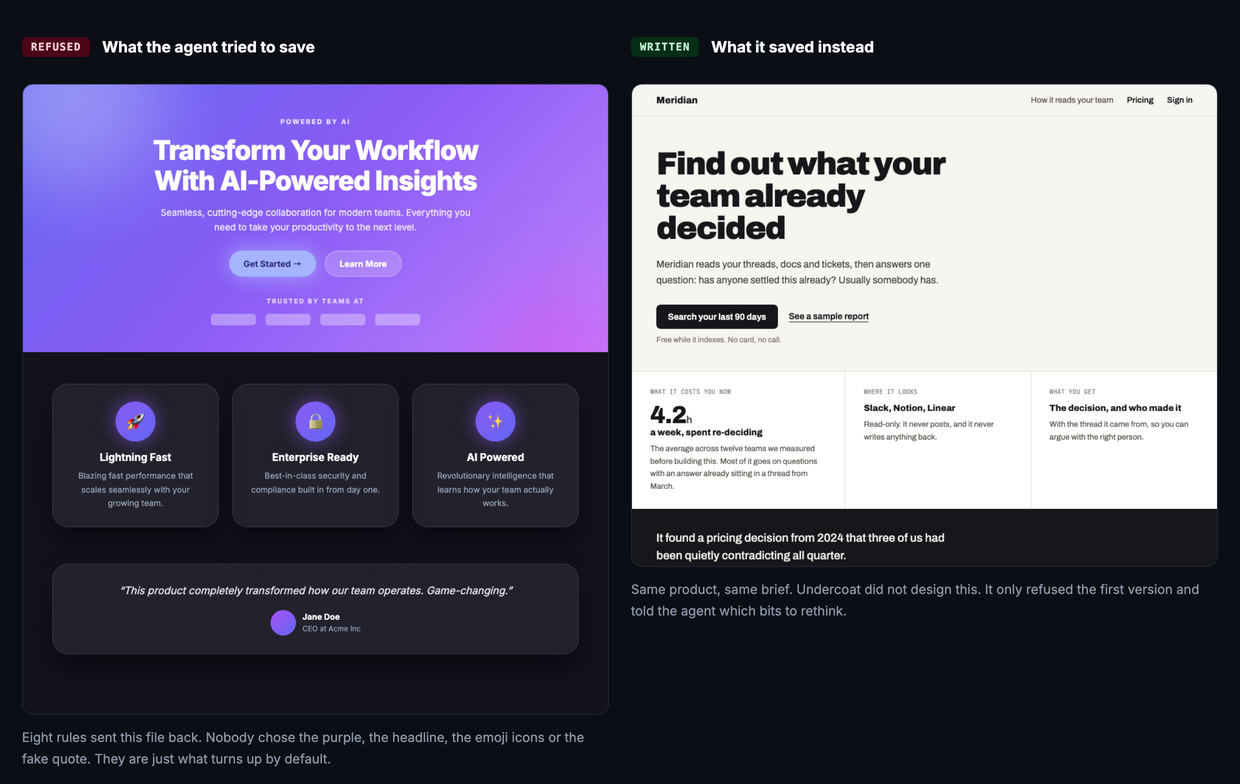
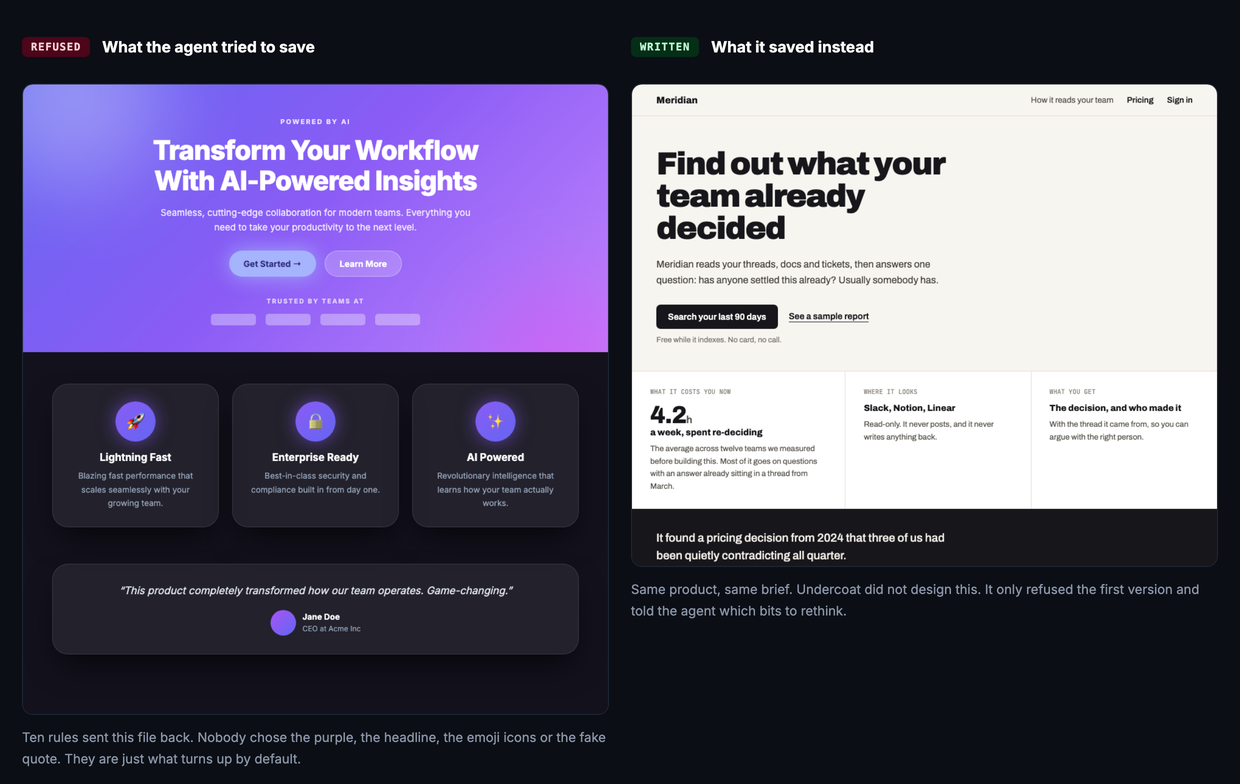
Teach twelve rules the plain-CSS spelling of what they already caught
A project not using Tailwind was getting a thinner floor than one that
was. Rules written utility-class-first knew from-x via-y to-z but not
linear-gradient with three stops, blur-3xl but not filter: blur(70px),
font-bold but not font-weight: 700.

Twelve rules now match both and are scoped to .css and .scss:

  rainbow-gradient  tailwind-default-blue  gradient-on-root
  ambient-blur-orb  everything-centered    all-bold
  hero-icon-circle  default-container-width  uniform-bubbly-radius
  sticky-everything  default-heavy-shadow  dark-mode-reflex

The demo page proves the point. It was always a three-stop gradient
with blurred orbs behind the headline, and neither rule could see it.
It now sends back 10 rather than 8.

Scoping block rules into CSS files exposed ambient-blur-orb matching a
bare blur-2xl, which is a blur utility and not an orb. It now needs the
absolute-positioned rounded shape, which took it from 8 hits to 0 and
put the block-rule false-alarm rate back to 0.25% over 9,207 files.

Also resynced 29 README rows that had drifted from patterns.json.

Changed region(s): [[0.0, 0.9184, 0.4903, 0.9796]]

diff --git a/assets/src/build_assets.py b/assets/src/build_assets.py
@@ -251,7 +251,7 @@ body{margin:0;background:#0b0e14;font-family:Inter,system-ui,sans-serif}
 .tot small{font:600 13px Inter;color:#8b95a8;display:block;margin-top:6px}
 .key div{display:flex;align-items:center;gap:8px;font-size:12.5px;color:#c3cddf;margin-bottom:8px}
 .sw{width:11px;height:11px;border-radius:3px}
-.note{margin-top:18px;font-size:13px;line-height:1.7;color:#8b95a8;border-top:1px solid #263041;padding-top:14px}
+.note{margin-top:16px;font-size:12.5px;line-height:1.65;color:#8b95a8;border-top:1px solid #263041;padding-top:13px}
 .note b{color:#fecdd3}
 """
 
@@ -268,8 +268,10 @@ ANNO = {
     "a_who":   ' data-rule="fake-testimonial" data-side="br"',
 }
 # Fires on the file but has nothing to point at in a picture.
-INVISIBLE = {"default-sans-inter": "the typeface", "neon-glow": "the glow around that button",
-             "eyebrow-label": "the letterspaced caps", "hardcoded-neutral-ramp": "the greys"}
+INVISIBLE = {"default-sans-inter": "the typeface", "neon-glow": "the glow on that button",
+             "eyebrow-label": "the letterspaced caps", "hardcoded-neutral-ramp": "the grays",
+             "rainbow-gradient": "three color stops", "ambient-blur-orb": "the blurred blobs",
+             "default-heavy-shadow": "the shadows under the cards"}
 
 
 def write_annotated(fired):

diff --git a/README.md b/README.md
@@ -4,7 +4,7 @@
 
 You've seen this page. Everyone has.
 
-![A generated landing page with thirteen Undercoat rules caught on it, eight of which send it back. The labels include a purple gradient, a vague headline, a generic call to action, an emoji standing in for an icon, and an invented testimonial](assets/what-it-refuses.png)
+![A generated landing page with sixteen Undercoat rules caught on it, ten of which send it back. The labels include a purple gradient, a vague headline, a generic call to action, an emoji standing in for an icon, and an invented testimonial](assets/what-it-refuses.png)
 
 Your agent didn't pick the purple, or the headline, or the button that says Get Started.
 None of that was a decision. It's just what comes out when nothing tells the model
@@ -80,17 +80,17 @@ try `cat > file` instead, so Undercoat turns that down and points it back at the
 | Rule | What it catches |
 |---|---|
 | `ai-purple` | Purple, violet or indigo gradient stops |
-| `ai-purple-hex` | The seven hex values models reach for when they mean "primary" |
+| `ai-purple-hex` | The seven hex values models pick for 'primary' |
 | `rainbow-gradient` | Gradients with three or more color stops |
 | `tinted-shadow` | Colored shadows like shadow-purple-500/50 |
-| `gradient-on-root` | A gradient on the page background itself |
+| `gradient-on-root` | A gradient applied to the page background itself |
 
 **Shadows, blur and shape**
 
 | Rule | What it catches |
 |---|---|
 | `neon-glow` | Zero-offset box shadows used as a glow |
-| `ambient-blur-orb` | The blurred color blob floating behind a hero |
+| `ambient-blur-orb` | A big blurred circle positioned behind a hero |
 | `gradient-border-trick` | A 1px gradient wrapper faking a glowing border |
 | `z-index-nuke` | Four-digit z-index values |
 
@@ -98,8 +98,8 @@ try `cat > file` instead, so Undercoat turns that down and points it back at the
 
 | Rule | What it catches |
 |---|---|
-| `default-sans-inter` | Inter set as the typeface |
-| `hero-italic-emphasis` | One italic word inside a hero headline |
+| `default-sans-inter` | Inter declared as the typeface |
+| `hero-italic-emphasis` | An italic word inside a hero headline |
 
 **The template page**
 
@@ -123,13 +123,13 @@ try `cat > file` instead, so Undercoat turns that down and points it back at the
 
 | Rule | What it catches |
 |---|---|
-| `generic-cta` | Buttons saying Get Started, Learn More, Click Here |
-| `vague-headline` | Headlines like "Transform Your Workflow" |
+| `generic-cta` | Buttons that say Get Started, Learn More, Click Here |
+| `vague-headline` | Headlines like Transform your workflow or Unlock the power |
 | `buzzword-copy` | Seamless, cutting-edge, revolutionary, game-changing |
-| `lorem-ipsum` | Placeholder latin still sitting in a real component |
+| `lorem-ipsum` | Placeholder latin left in a real component |
 | `placeholder-copy` | Your Company, Text goes here, Replace this |
-| `fake-testimonial` | John Doe or Acme Inc used as social proof |
-| `ai-implementation-comment` | Comments like "// In a real implementation this would" |
+| `fake-testimonial` | John Doe or Acme Inc rendered as social proof |
+| `ai-implementation-comment` | Comments like // In a real implementation this would |
 | `hardcoded-relative-time` | Three or more X ago timestamps written into the markup |
 
 **Pictures and icons**
@@ -152,12 +152,12 @@ says something and gets out of your way.
 
 | Rule | What it catches |
 |---|---|
-| `tailwind-default-blue` | bg-blue-500 or bg-blue-600 as the brand color |
+| `tailwind-default-blue` | bg-blue-500, bg-blue-600 or #3b82f6 as the brand color |
 | `hardcoded-neutral-ramp` | Tailwind's slate, zinc, gray or stone ramps hardcoded as the palette |
 | `default-grey-body` | Light gray body text on a light background |
 | `pure-black-on-white` | Pure #000 text |
 | `hardcoded-hex-in-markup` | Arbitrary hex values inline in class names |
-| `status-stripe-accent` | Two or more cards tagged with different colored left-edge stripes |
+| `status-stripe-accent` | Two or more cards or rows tagged with different colored left-edge stripes |
 | `traffic-light-status` | Green, amber and red all used together as status colors |
 
 **Shadows, blur and shape**
@@ -165,8 +165,8 @@ says something and gets out of your way.
 | Rule | What it catches |
 |---|---|
 | `glassmorphism` | Frosted glass via backdrop-blur |
-| `default-heavy-shadow` | shadow-xl and shadow-2xl on ordinary cards |
-| `uniform-bubbly-radius` | rounded-3xl on every surface |
+| `default-heavy-shadow` | shadow-xl and shadow-2xl, or their CSS equivalent, on ordinary cards |
+| `uniform-bubbly-radius` | rounded-3xl, or a 24px-plus radius, on every surface |
 | `ring-decoration` | Focus rings used as ornament |
 | `border-and-shadow` | A border and a shadow doing the same job |
 
@@ -174,9 +174,9 @@ says something and gets out of your way.
 
 | Rule | What it catches |
 |---|---|
-| `system-font-only` | The system stack as the only typographic choice |
-| `all-bold` | font-bold repeated until nothing stands out |
-| `eyebrow-label` | The tiny uppercase letterspaced kicker, in utility classes or plain CSS |
+| `system-font-only` | The system font stack as the only typographic choice |
+| `all-bold` | font-bold or font-weight 700 repeated until nothing stands out |
+| `eyebrow-label` | The tiny uppercase letterspaced kicker above a heading, in utility classes or plain CSS |
 | `giant-hero-text` | text-7xl and above |
 
 **Words on the page**
@@ -185,14 +185,14 @@ says something and gets out of your way.
 |---|---|
 | `danger-zone-heading` | A section headed Danger Zone |
 | `exclamation-marketing` | Exclamation marks in interface copy |
-| `trusted-by-logos` | A "Trusted by" logo strip |
-| `powered-by-ai-copy` | Copy selling the tech instead of the benefit |
+| `trusted-by-logos` | A Trusted by logo strip |
+| `powered-by-ai-copy` | Copy that sells the implementation rather than the benefit |
 
 **Pictures and icons**
 
 | Rule | What it catches |
 |---|---|
-| `sparkles-icon` | The sparkle or wand icon standing in for AI |
+| `sparkles-icon` | The sparkle or wand icon as shorthand for AI |
 
 **Layout and spacing**
 
@@ -201,15 +201,15 @@ says something and gets out of your way.
 | `three-card-grid` | Three equal cards as a page's main content |
 | `nested-cards` | A card inside a card |
 | `everything-centered` | Whole sections center-aligned |
-| `hero-icon-circle` | A big circled icon floating above a heading |
-| `full-height-hero` | min-h-screen on the first thing anyone sees |
-| `default-container-width` | max-w-7xl mx-auto, the width nobody picked |
-| `sticky-everything` | More than one sticky element fighting for the screen |
+| `hero-icon-circle` | A large circled icon floating above a heading |
+| `full-height-hero` | min-h-screen on the first thing a reader sees |
+| `default-container-width` | max-w-7xl mx-auto, or a 1280px centered container, the width nobody chose |
+| `sticky-everything` | More than one sticky element competing for the viewport |
 | `status-chip-soup` | Four or more badges in one view |
-| `cramped-padding` | p-0 and p-1 where something needed room |
+| `cramped-padding` | p-0 and p-1 where breathing room was needed |
 | `magic-spacing` | Arbitrary pixel spacing off the scale |
 | `small-touch-target` | Buttons under roughly 44px |
-| `placeholder-as-label` | A placeholder doing the job of a label |
+| `placeholder-as-label` | A placeholder used as the only label |
 | `nothing-here-yet` | A No X yet or Nothing here yet empty state heading |
 
 **Movement**
@@ -218,15 +218,15 @@ says something and gets out of your way.
 |---|---|
 | `uniform-fade-in` | The same entrance animation on everything |
 | `bounce-easing` | Overshoot easing on interface motion |
-| `decorative-pulse` | animate-pulse on something that isn't loading |
+| `decorative-pulse` | animate-pulse on something that is not loading |
 | `slow-transition` | Transitions over half a second |
 
 **Everything else**
 
 | Rule | What it catches |
 |---|---|
-| `dark-mode-reflex` | A near-black page background by default |
-| `inline-style-attribute` | Values set inline, going round the system |
+| `dark-mode-reflex` | A near-black page background as the default |
+| `inline-style-attribute` | Values set inline, bypassing the system |
 | `important-override` | !important |
 
 </details>

diff --git a/AGENTS.md b/AGENTS.md
@@ -38,7 +38,7 @@ A three-stop gradient is decoration with no informational job. It is the 'make i
 
 **Instead:** One color, or a two-stop gradient with a reason. Excitement comes from contrast, not from hue count.
 
-*Applies to: `**/*.tsx`, `**/*.jsx`, `**/*.vue`, `**/*.svelte`, `**/*.html`*
+*Applies to: `**/*.css`, `**/*.html`, `**/*.jsx`, `**/*.scss`, `**/*.svelte`, `**/*.tsx`, `**/*.vue`*
 
 ### tinted-shadow
 
@@ -54,7 +54,7 @@ A gradient across the whole page background is the default 'premium' move and it
 
 **Instead:** A flat background. Let the content carry the interest.
 
-*Applies to: `**/*.tsx`, `**/*.jsx`, `**/*.vue`, `**/*.svelte`, `**/*.html`*
+*Applies to: `**/*.css`, `**/*.html`, `**/*.jsx`, `**/*.scss`, `**/*.svelte`, `**/*.tsx`, `**/*.vue`*
 
 ### default-sans-inter
 
@@ -78,7 +78,7 @@ The giant blurred color blob floating behind the hero is pure decoration, and it
 
 **Instead:** Delete it. If the background needs interest, use a real edge, a rule, or a change of surface.
 
-*Applies to: `**/*.tsx`, `**/*.jsx`, `**/*.vue`, `**/*.svelte`, `**/*.html`*
+*Applies to: `**/*.css`, `**/*.html`, `**/*.jsx`, `**/*.scss`, `**/*.svelte`, `**/*.tsx`, `**/*.vue`*
 
 ### gradient-border-trick
 
@@ -306,7 +306,7 @@ Tailwind's mid-blue as the primary brand color is the framework default wearing 
 
 **Instead:** Define one project color and use it. Any deliberate hue beats the palette you got for free.
 
-*Applies to: `**/*.tsx`, `**/*.jsx`, `**/*.vue`, `**/*.svelte`, `**/*.html`*
+*Applies to: `**/*.css`, `**/*.html`, `**/*.jsx`, `**/*.scss`, `**/*.svelte`, `**/*.tsx`, `**/*.vue`*
 
 *Advises rather than blocks: Plenty of real products deliberately use a mid-blue, and Tailwind's is a reasonable one.*
 
@@ -356,7 +356,7 @@ When everything is bold nothing is. Uniform heavy weight is what happens when hi
 
 **Instead:** One or two weights doing different jobs. Let size and space carry the rest.
 
-*Applies to: `**/*.tsx`, `**/*.jsx`, `**/*.ts`, `**/*.js`, `**/*.vue`, `**/*.svelte`*
+*Applies to: `**/*.css`, `**/*.js`, `**/*.jsx`, `**/*.scss`, `**/*.svelte`, `**/*.ts`, `**/*.tsx`, `**/*.vue`*
 
 *Advises rather than blocks: Counting occurrences in a window is a proxy, and a dense component can trip it legitimately.*
 
@@ -386,7 +386,7 @@ The default heavy drop shadow on every card is how generated UI signals 'this is
 
 **Instead:** A hairline border, or a shadow one or two steps lighter. Reserve the heaviest depth for things that actually float.
 
-*Applies to: `**/*.tsx`, `**/*.jsx`, `**/*.vue`, `**/*.svelte`, `**/*.html`*
+*Applies to: `**/*.css`, `**/*.html`, `**/*.jsx`, `**/*.scss`, `**/*.svelte`, `**/*.tsx`, `**/*.vue`*
 
 *Advises rather than blocks: shadow-xl is the right depth for modals, popovers and dropdowns that genuinely float.*
 
@@ -406,7 +406,7 @@ Oversized rounding on every surface is a named tell. When cards, buttons and inp
 
 **Instead:** Pick one radius for the project and vary it deliberately: tighter on inputs, looser on containers.
 
-*Applies to: `**/*.tsx`, `**/*.jsx`, `**/*.vue`, `**/*.svelte`, `**/*.html`*
+*Applies to: `**/*.css`, `**/*.html`, `**/*.jsx`, `**/*.scss`, `**/*.svelte`, `**/*.tsx`, `**/*.vue`*
 
 *Advises rather than blocks: rounded-3xl is a legitimate deliberate choice for soft design systems.*
 
@@ -486,7 +486,7 @@ Every generated page is 1280px centered. It is not wrong, it is the width nobody
 
 **Instead:** Pick a measure from your type. Long-form reading wants far narrower; a dashboard usually wants wider.
 
-*Applies to: `**/*.tsx`, `**/*.jsx`, `**/*.ts`, `**/*.js`, `**/*.vue`, `**/*.svelte`*
+*Applies to: `**/*.css`, `**/*.js`, `**/*.jsx`, `**/*.scss`, `**/*.svelte`, `**/*.ts`, `**/*.tsx`, `**/*.vue`*
 
 *Advises rather than blocks: A perfectly reasonable width that many real projects pick deliberately.*
 
@@ -496,7 +496,7 @@ Centered everything is the layout equivalent of a shrug. Centered text is hard t
 
 **Instead:** Left-align body copy. Center only short, deliberate lines.
 
-*Applies to: `**/*.tsx`, `**/*.jsx`, `**/*.vue`, `**/*.svelte`, `**/*.html`*
+*Applies to: `**/*.css`, `**/*.html`, `**/*.jsx`, `**/*.scss`, `**/*.svelte`, `**/*.tsx`, `**/*.vue`*
 
 *Advises rather than blocks: Centered sections are correct for short hero content.*
 
@@ -516,7 +516,7 @@ The big circled icon floating above a centered heading is a named tell. The deco
 
 **Instead:** Lose the circle. If the icon earns its place, let it sit inline at text scale.
 
-*Applies to: `**/*.tsx`, `**/*.jsx`, `**/*.ts`, `**/*.js`, `**/*.vue`, `**/*.svelte`*
+*Applies to: `**/*.css`, `**/*.js`, `**/*.jsx`, `**/*.scss`, `**/*.svelte`, `**/*.ts`, `**/*.tsx`, `**/*.vue`*
 
 *Advises rather than blocks: Needs relative sizing and position to detect properly; also fires on large avatars.*
 
@@ -536,7 +536,7 @@ More than one sticky element and the viewport belongs to the chrome rather than 
 
 **Instead:** One sticky thing at most. Everything else can scroll away.
 
-*Applies to: `**/*.tsx`, `**/*.jsx`, `**/*.ts`, `**/*.js`, `**/*.vue`, `**/*.svelte`*
+*Applies to: `**/*.css`, `**/*.js`, `**/*.jsx`, `**/*.scss`, `**/*.svelte`, `**/*.ts`, `**/*.tsx`, `**/*.vue`*
 
 *Advises rather than blocks: Counting in a window is a proxy and can trip on legitimate layouts.*
 
@@ -626,7 +626,7 @@ Dark by default is the most common reflex in generated interfaces. Dark is a rea
 
 **Instead:** Decide. If the product is used in daylight by people reading text, light is probably right.
 
-*Applies to: `**/layout.tsx`, `**/App.tsx`, `**/index.html`, `**/*.css`, `**/*.scss`*
+*Applies to: `**/*.css`, `**/*.scss`, `**/App.tsx`, `**/index.html`, `**/layout.tsx`*
 
 *Advises rather than blocks: Whether dark is a reflex or a decision cannot be read from a class name.*
 
